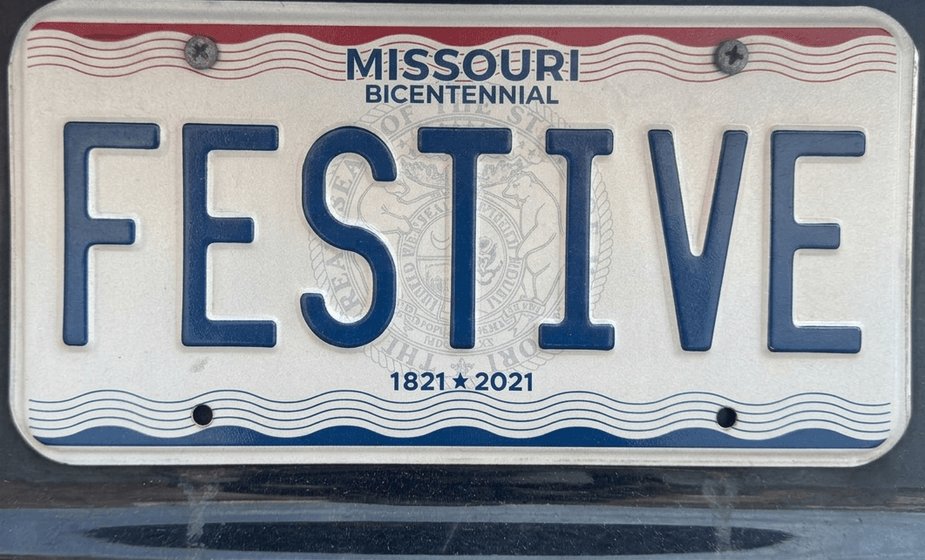
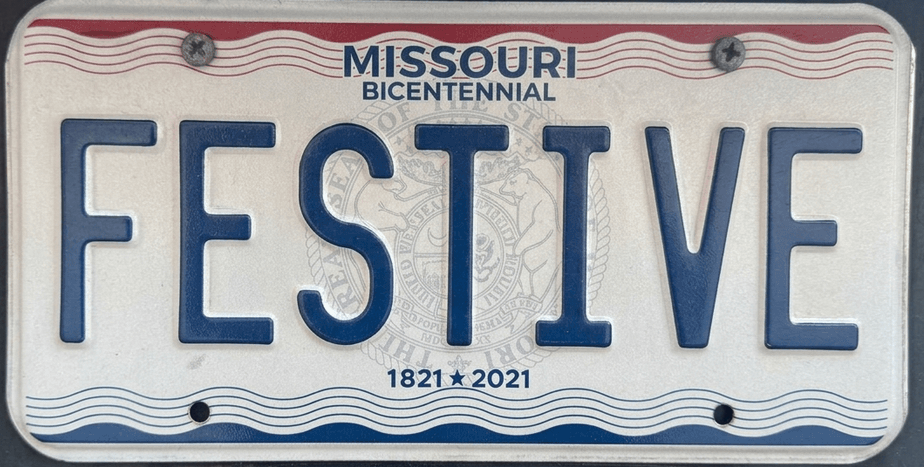
Re-crop MO plate to ~2:1 (no bumper) and cover-fill it
Smoothed first-bright-band detection finds the true plate bottom (the dark gap
before the bumper), so the plate is no longer pushed high. Crop is ~1.98:1, so
cover fills the centered opening with the full plate.

diff --git a/src/data/plate-images.ts b/src/data/plate-images.ts
@@ -36,9 +36,9 @@ const DEFAULT_DISPLAY: PlateImageDisplay = {
 const plateDisplay: Record<string, Partial<PlateImageDisplay>> = {
   // Tight crop, was getting clipped at the edges — show the whole plate.
   CA: { objectFit: "contain", scale: 1 },
-  // Pre-cropped to the plate bounds; "contain" shows the whole plate (it's
-  // ~1.65:1, not 2:1, so cover would crop the banner/dates) — no zoom.
-  MO: { objectFit: "contain", scale: 1, objectPosition: "center" },
+  // Pre-cropped tight to the plate bounds at ~2:1 (banner→dates, no bumper),
+  // so a plain centered cover fills the opening with the full plate.
+  MO: { objectFit: "cover", scale: 1, objectPosition: "center" },
 };
 
 export function getPlateImageDisplay(stateAbbr: string): PlateImageDisplay {